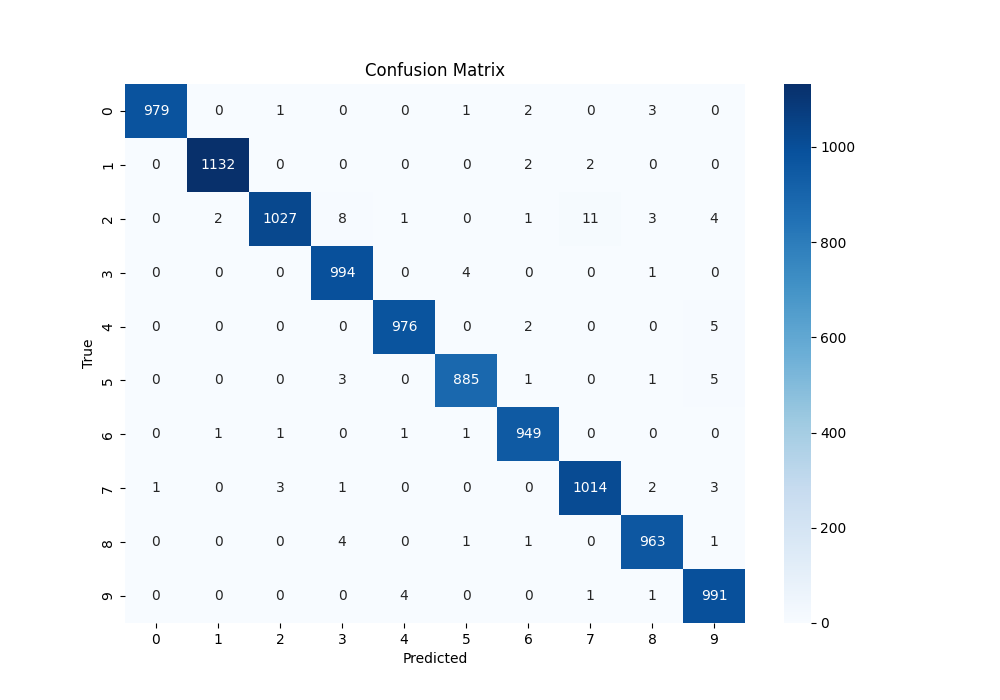
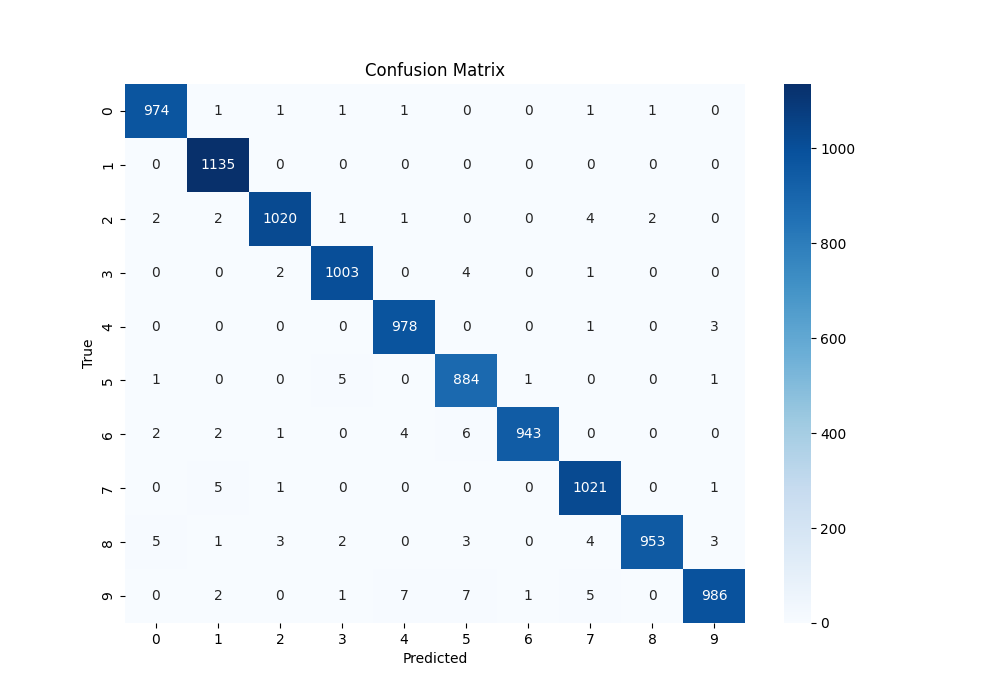
first model reports

diff --git a/Sem4/AI/exc2/process_img.py b/Sem4/AI/exc2/process_img.py
@@ -6,7 +6,7 @@ import matplotlib.pyplot as plt
 from tensorflow.keras.models import load_model
 from sklearn.metrics import confusion_matrix, classification_report
 
-model = load_model("../exc1/neural_model.h5")
+model = load_model("../exc1/neural_model.keras")
 
 def process_img(img_path):
     img = cv2.imread(img_path, cv2.IMREAD_GRAYSCALE)
@@ -21,8 +21,8 @@ for file in [f for f in os.listdir('img') if f.endswith('.png')]:
     digit = int(file[0])
     img = process_img(f'img/{file}')
 
-    x_test.append(img)
-    y_test.append(digit)
+    x_test = np.append(x_test, img)
+    y_test = np.append(y_test, digit)
 
 x_test = x_test.reshape(-1, 28, 28, 1)
 
@@ -30,7 +30,7 @@ y_pred = model.predict(x_test)
 
 y_pred_classes = np.argmax(y_pred, axis=1)
 
-cm = confusion_matrix(y_pred_classes, y_test)
+cm = confusion_matrix(y_test, y_pred_classes)
 plt.figure(figsize=(10, 7))
 sns.heatmap(cm, annot=True, fmt='d', cmap='Blues', xticklabels=np.arange(10), yticklabels=np.arange(10))
 plt.title('Confusion Matrix')

diff --git a/Sem4/AI/exc1/train.py b/Sem4/AI/exc1/train.py
@@ -31,13 +31,13 @@ model = tf.keras.models.Sequential([
     tf.keras.layers.Flatten(),
 
     # final interpretation layer
-    tf.keras.layers.Dense(128, activation='relu'),
+    # tf.keras.layers.Dense(128, activation='relu'),
     tf.keras.layers.Dense(10, activation='softmax')
 ])
 
 # compilation and training
 model.compile(optimizer='adam', loss='sparse_categorical_crossentropy', metrics=['accuracy'])
-model.fit(x_train, y_train, epochs=7, validation_data=(x_test, y_test))
+model.fit(x_train, y_train, epochs=6, validation_data=(x_test, y_test))
 model.save("neural_model.keras")
 
 # evaluation
@@ -47,7 +47,7 @@ y_pred = model.predict(x_test)
 # in this case index = predicted digit
 y_pred_classes = np.argmax(y_pred, axis=1)
 
-cm = confusion_matrix(y_pred_classes, y_test)
+cm = confusion_matrix(y_test, y_pred_classes)
 plt.figure(figsize=(10, 7))
 sns.heatmap(cm, annot=True, fmt='d', cmap='Blues', xticklabels=np.arange(10), yticklabels=np.arange(10))
 plt.title('Confusion Matrix')
